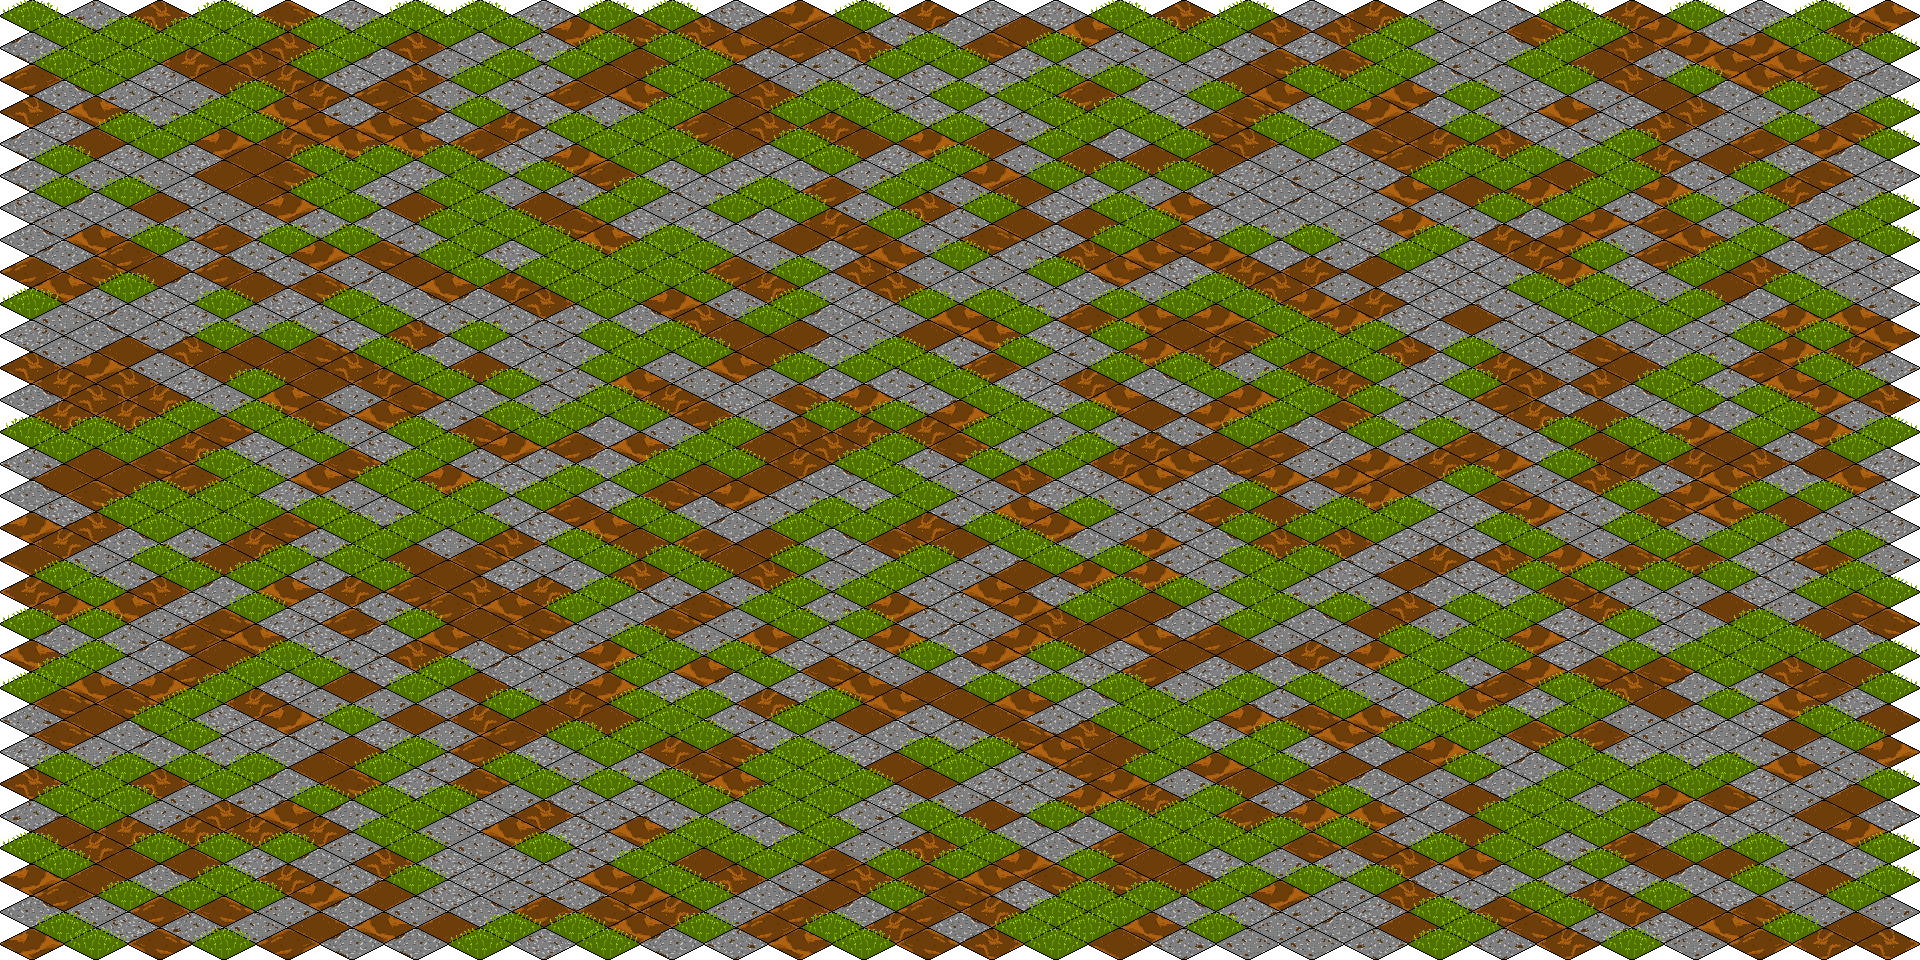
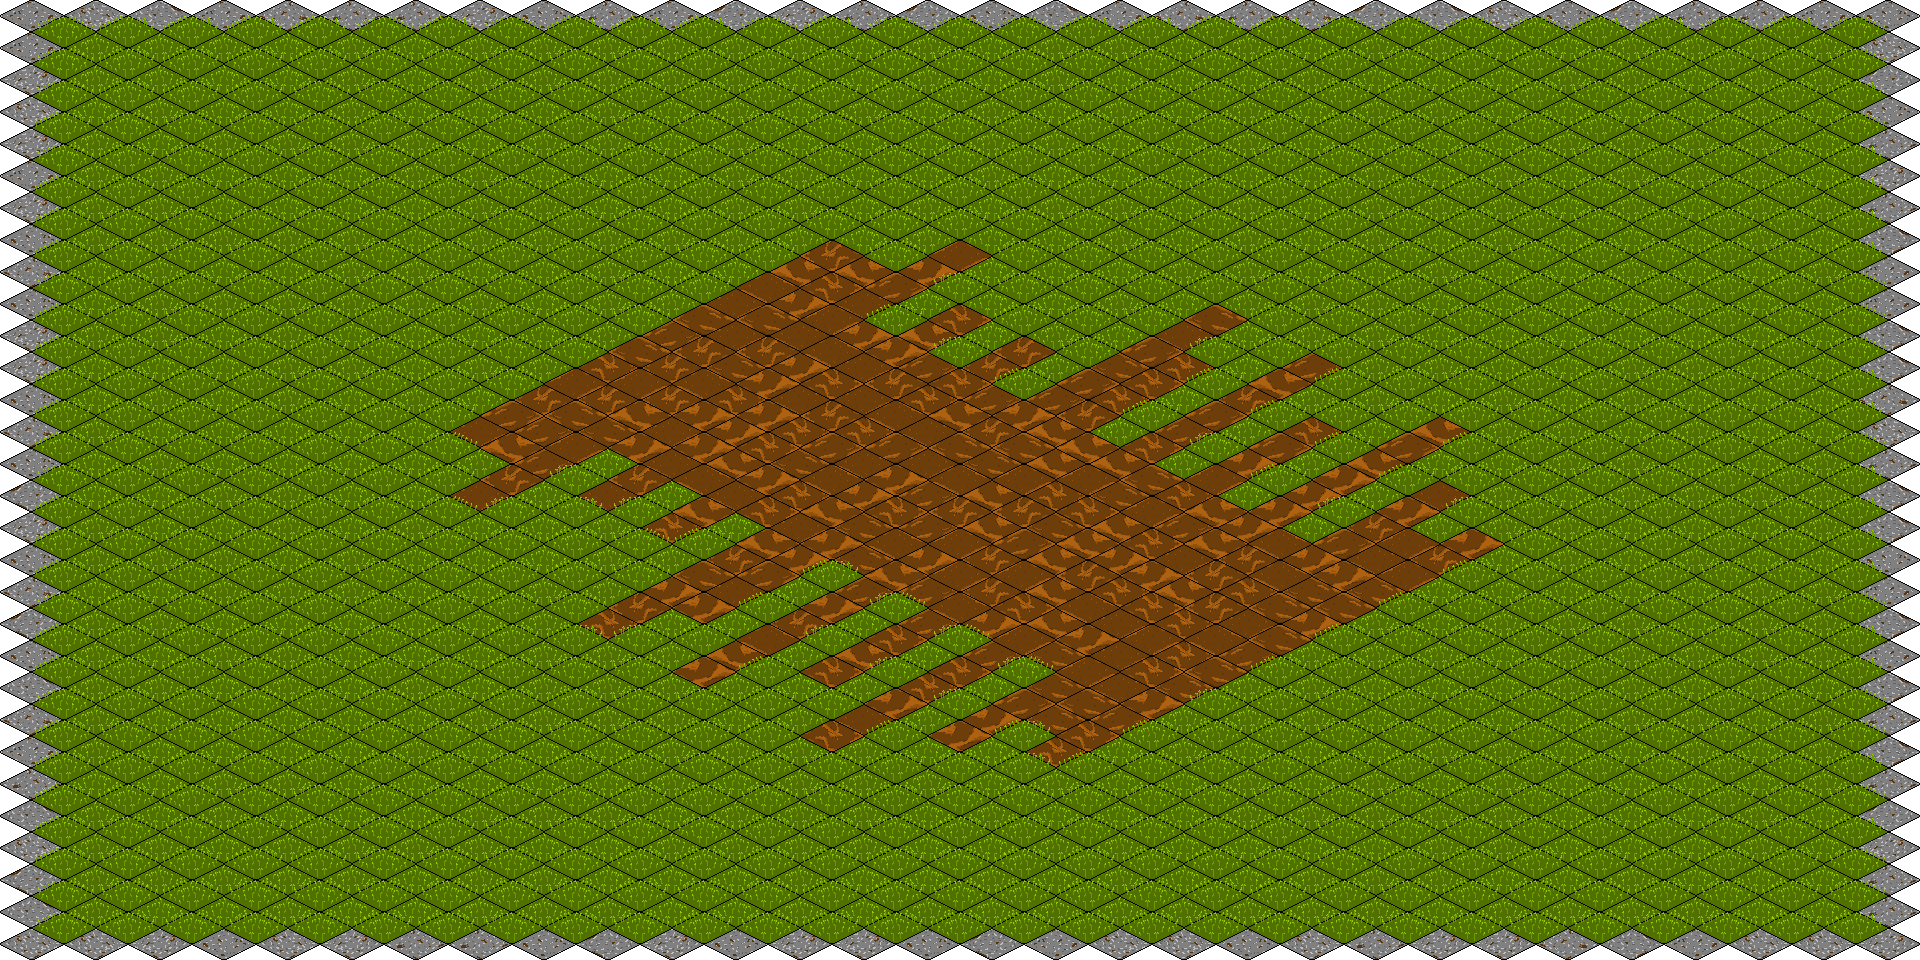
Working Map Load

diff --git a/map.py b/map.py
@@ -1,4 +1,5 @@
 import pygame 
+from mapgen import map_gen
 from random import randint
 from pygame.locals import *
 
@@ -28,18 +29,102 @@ class Map:
 		self.tile = tile
 		self.background = None
 		
-		#We initially draw the tiles here to inevitably save as a png, then use as a background
-		for i in range(59):
-			if (i%2) == 0:
-				for j in range(30):
-					x_rand = randint(0, 7)
-					y_rand = randint(0, 2)
-					screen.blit(self.tile.file, ((j*64),(i*16)), (x_rand*64, y_rand*32, 64, 32))
+		#Calls our map generator to make an ascii map for us
+		map = map_gen()
+
+		print("Printing length of row 29!")
+		print(len(map[29]))
+		
+		for i in range(len(map)):
+			if i < 30:
+				x_counter = 0
+				y_counter = i
+				for j in range(len(map[i])):
+					x_index = randint(0, 7)
+					
+					if map[i][j] == '/':
+						y_index = 2
+					elif map[i][j] == '&':
+						y_index = 1
+					elif map[i][j] == '*':
+						y_index = 0
+						
+					if j%2 == 0:
+						screen.blit(self.tile.file, ((x_counter*64),(y_counter*32)), (x_index*64, y_index*32, 64, 32))
+						x_counter += 1
+						y_counter -= 1
 			else:
-				for j in range(29):
-					x_rand = randint(0, 7)
-					y_rand = randint(0, 2)
-					screen.blit(self.tile.file, ((j*64)+32,(i*16)), (x_rand*64, y_rand*32, 64, 32))
+				x_counter = i - int((len(map)/2))
+				y_counter = int(len(map)/2)
+				
+				for j in range(len(map[i])):
+					x_index = randint(0, 7)
+						
+					if map[i][j] == '/':
+						y_index = 2
+					elif map[i][j] == '&':
+						y_index = 1
+					elif map[i][j] == '*':
+						y_index = 0
+							
+					if j%2 == 0:
+						screen.blit(self.tile.file, ((x_counter*64),(y_counter*32)), (x_index*64, y_index*32, 64, 32))
+						x_counter += 1
+						y_counter -= 1
+						
+		for i in range(len(map)):
+			if i < 30:
+				x_counter = 0
+				y_counter = i - 1
+				for j in range(len(map[i])):
+					x_index = randint(0, 7)
+					
+					if map[i][j] == '/':
+						y_index = 2
+					elif map[i][j] == '&':
+						y_index = 1
+					elif map[i][j] == '*':
+						y_index = 0
+						
+					if j%2 == 1:
+						screen.blit(self.tile.file, ((x_counter*64)+32,(y_counter*32) + 16), (x_index*64, y_index*32, 64, 32))
+						x_counter += 1
+						y_counter -= 1
+						
+			else:
+				x_counter = i - int((len(map)/2))
+				y_counter = int(len(map)/2) - 1
+				
+				for j in range(len(map[i])):
+					x_index = randint(0, 7)
+						
+					if map[i][j] == '/':
+						y_index = 2
+					elif map[i][j] == '&':
+						y_index = 1
+					elif map[i][j] == '*':
+						y_index = 0
+							
+					if j%2 == 1:
+						screen.blit(self.tile.file, ((x_counter*64)+32,(y_counter*32)+ 16), (x_index*64, y_index*32, 64, 32))
+						x_counter += 1
+						y_counter -= 1
+					
+							
+				#else:
+				#	screen.blit(self.tile.file, ((j*32),(i*16) + 16), (0*64, 0*32, 64, 32))
+				
+		#for i in range(59):
+		#	if (i%2) == 0:
+		#		for j in range(30):
+		#			x_rand = randint(0, 7)
+		#			y_rand = randint(0, 2)
+		#			screen.blit(self.tile.file, ((j*64),(i*16)), (x_rand*64, y_rand*32, 64, 32))
+		#	else:
+		#		for j in range(29):
+		#			x_rand = randint(0, 7)
+		#			y_rand = randint(0, 2)
+		#			screen.blit(self.tile.file, ((j*64)+32,(i*16)), (x_rand*64, y_rand*32, 64, 32))
 		
 		pygame.image.save(screen, 'background.png')
 		

diff --git a/mapgen.py b/mapgen.py
@@ -6,63 +6,57 @@ randomints = []
 #Generate random number of tiles: the length of the array is how many rows, each number in each index is the number of tiles for that row
 for t in range(random.randint(15,25)):
  		randomints.append(random.randint(7,20))
+print(randomints)
+print(len(randomints))
 
-f = open("mapstrings.txt", "w")
-t = 0
 
-#Iterates the first half of the tiles in the Y direction
-for y in range(0,30):
-	flag = 0
-	row = []
-	length = y + (y + 1)
-	#Iterates the X direction, setting edges as "/", water or impassible terrain as "*", and land as "&"
-	for x in range(0,length):
-		if x == 0 or x == (length - 1):
-			row.append("/")
-		#At half of the Y length of the map, create an island type land mass
-		elif y >= (30 - (len(randomints)/2)) and t < len(randomints):
-			if x <= (round(length-1)/2) - round(randomints[t]/2) - 1:
-				row.append("*")
-			elif x >= (round(length-1)/2) + round(randomints[t]/2):
-				row.append("*")
+
+def map_gen():
+	f = open("map.txt", "w")
+	t = 0
+	for i in range(0,30):
+		flag = 0
+		row = []
+		length = i + (i + 1)
+		for x in range(0,length):
+			if x == 0 or x == (length - 1):
+				row.append("/")
+			elif i >= (30 - (len(randomints)/2)) and t < len(randomints):
+				if x <= (round(length-1)/2) - round(randomints[t]/2) - 1:
+					row.append("*")
+				elif x >= (round(length-1)/2) + round(randomints[t]/2):
+					row.append("*")
+				else:
+					row.append("&")
+					flag = 1
 			else:
-				row.append("&")
-				flag = 1
-		else:
-			row.append("*")
-	if flag == 1:
-		t += 1
-	map.append(row)
-	f.write(str(row) + "\n")
+				row.append("*")
+		if flag == 1:
+			t += 1
+			
+		map.append(row)
 
-#Iterates the second half of the tiles in the Y direction
-j = 1
-for y in range(30,59):
-	row = []
-	length = (y+(y+1) - (4 * j))
-	j += 1
-	#Iterates the X direction, setting edges as "/", water or impassible terrain as "*", and land as "&"
-	for x in range(0,length):
-		if x == 0 or x == (length - 1):
-			row.append("/")
-		#At half of the Y length of the map, create an island type land mass
-		elif y <= (31 + (round(len(randomints)/2) -2)) and t < len(randomints):
-			if x <= (round(length-1)/2) - round(randomints[t]/2) -1:
-				row.append("*")
-			elif x >= (round(length-1)/2) + round(randomints[t]/2):
-				row.append("*")
+	j = 1
+	for i in range(30,59):
+		row = []
+		length = (i+(i+1) - (4 * j))
+		j += 1
+		for x in range(0,length):
+			if x == 0 or x == (length - 1):
+				row.append("/")
+			elif i <= (31 + (round(len(randomints)/2) -2)) and t < len(randomints):
+				if x <= (round(length-1)/2) - round(randomints[t]/2) -1:
+					row.append("*")
+				elif x >= (round(length-1)/2) + round(randomints[t]/2):
+					row.append("*")
+				else:
+					row.append("&")
+					flag = 1
 			else:
-				row.append("&")
-				flag = 1
-		else:
-			row.append("*")
-	if flag == 1:
-		t += 1
-	map.append(row)
-	f.write(str(row) + "\n")
-f.close()
-
-#Write to a file as an array
-f = open("maparray.txt", "w")
-f.write(str(map))
-f.close()
+				row.append("*")
+		if flag == 1:
+			t += 1
+		map.append(row)
+	f.write(str(map))
+	
+	return map

diff --git a/test.py b/test.py
@@ -1,5 +1,6 @@
 import pygame
 import map
+import mapgen
 
 from pygame.locals import *
 
